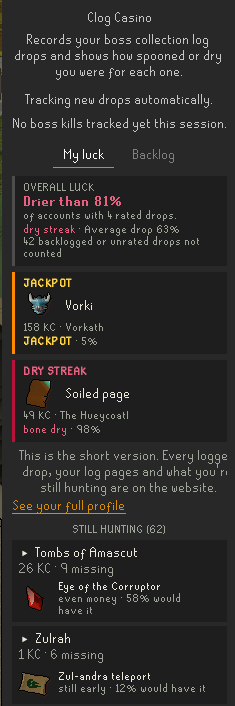
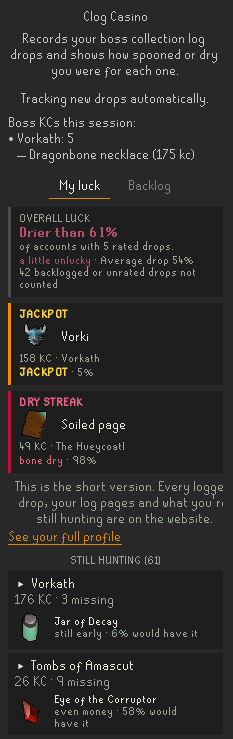
Clog Casino: update the side panel screenshot with a tracked drop

Changed region(s): [[0.0, 0.0, 0.9614, 1.0]]

diff --git a/osrs-luck-tracker/app/page.tsx b/osrs-luck-tracker/app/page.tsx
@@ -68,8 +68,8 @@ export default function HomePage() {
         <Image
           src="/side-panel.png"
           alt="The Clog Casino side panel in RuneLite, showing overall luck, the luckiest and driest drops, and the items still being hunted at each boss"
-          width={235}
-          height={706}
+          width={233}
+          height={739}
           unoptimized
           className="mx-auto shrink-0 border border-panel-border sm:mx-0"
         />
